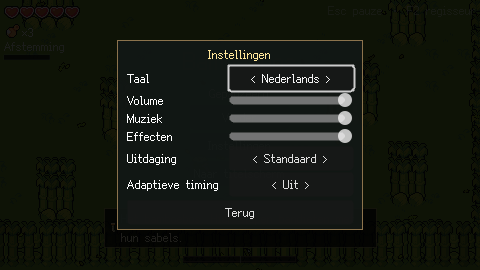
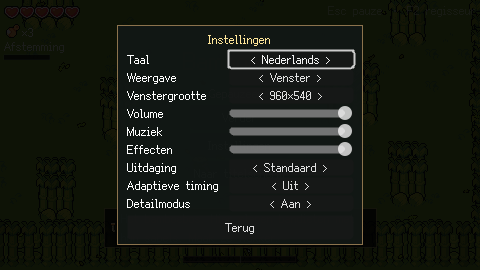
Display settings: windowed, borderless fullscreen, fullscreen and window size
The settings panel cycles the display mode and the window size (whole
multiples of 480x270 that fit the screen; full screen always fills it).
Both are saved in settings.cfg and applied at launch. Cycle buttons are
thinner so every row, Detail mode included, fits the 270 px screen.
MenuPauseSettings now stages the after-ending form.

Claude-Session: https://claude.ai/code/session_01AfcAfq5gy39RY2zATVopvQ

diff --git a/game/scripts/Core/UserSettings.cs b/game/scripts/Core/UserSettings.cs
@@ -5,7 +5,7 @@ namespace SwordInTheForest.Core;
 
 /// <summary>
 /// The player's own settings, kept in user://settings.cfg beside the director's: language and the
-/// master, music and effects volumes, whether the first ending was reached and Detail mode. First launch follows the operating system's language
+/// master, music and effects volumes, the display mode and window size, whether the first ending was reached and Detail mode. First launch follows the operating system's language
 /// (Dutch, Chinese, otherwise English). Nothing is read or written in scenario and screenshot runs.
 /// </summary>
 public static class UserSettings
@@ -32,6 +32,12 @@ public static class UserSettings
     /// <summary>Show merit, karma, reaction times and the attunement meter.</summary>
     public static bool ShowDetails => EndingSeen && DetailMode;
 
+    /// <summary>Windowed, borderless fullscreen or fullscreen.</summary>
+    public static DisplayMode Display { get; private set; } = DisplayMode.Windowed;
+    /// <summary>The windowed size as a multiple of the 480×270 viewport (1 to <see cref="MaxScale"/>).</summary>
+    public static int Scale { get; private set; } = 3;
+    public const int BaseWidth = 480, BaseHeight = 270;
+
     public static event Action? Changed;
 
     /// <summary>One of <see cref="Locales"/> for any locale code.</summary>
@@ -51,6 +57,10 @@ public static class UserSettings
         Effects = (float)(double)cfg.GetValue("audio", "effects", 1.0);
         EndingSeen = (bool)cfg.GetValue("progress", "ending_seen", false);
         DetailMode = (bool)cfg.GetValue("ui", "detail_mode", false);
+        var mode = (int)cfg.GetValue("display", "mode", (int)DisplayMode.Windowed);
+        Display = Enum.IsDefined(typeof(DisplayMode), mode) ? (DisplayMode)mode : DisplayMode.Windowed;
+        Scale = Mathf.Clamp((int)cfg.GetValue("display", "scale", DefaultScale()), 1, MaxScale());
+        ApplyDisplay();
         if (applyLocale)
         {
             var saved = loaded ? (string)cfg.GetValue("ui", "locale", "") : "";
@@ -103,6 +113,63 @@ public static class UserSettings
         Changed?.Invoke();
     }
 
+    /// <summary>The largest multiple of 480×270 whose window fits the screen (4 when there is no screen).</summary>
+    public static int MaxScale()
+    {
+        if (Headless) return 4;
+        var usable = DisplayServer.ScreenGetUsableRect(DisplayServer.WindowGetCurrentScreen()).Size;
+        // Leave room for the title bar in windowed mode.
+        var k = Mathf.Min(usable.X / BaseWidth, (usable.Y - 32) / BaseHeight);
+        return Mathf.Max(1, k);
+    }
+
+    /// <summary>The project's own window size (1440×810, ×3) if it fits, else the largest that does.</summary>
+    private static int DefaultScale() => Mathf.Min(3, MaxScale());
+
+    public static void SetDisplay(DisplayMode mode)
+    {
+        Display = mode;
+        ApplyDisplay();
+        Save();
+    }
+
+    /// <summary>The next display mode (step +1 or -1).</summary>
+    public static void CycleDisplay(int step) => SetDisplay((DisplayMode)Mathf.PosMod((int)Display + step, 3));
+
+    /// <summary>The next window size that fits the screen (step +1 or -1, wrapping).</summary>
+    public static void CycleScale(int step)
+    {
+        var max = MaxScale();
+        Scale = Mathf.PosMod(Mathf.Clamp(Scale, 1, max) - 1 + step, max) + 1;
+        ApplyDisplay();
+        Save();
+    }
+
+    private static bool Headless => DisplayServer.GetName() == "headless";
+
+    /// <summary>Sets the window. Scenario and screenshot runs leave the window alone.</summary>
+    private static void ApplyDisplay()
+    {
+        if (!Persist || Headless) return;
+        switch (Display)
+        {
+            case DisplayMode.Borderless:
+                DisplayServer.WindowSetMode(DisplayServer.WindowMode.Fullscreen);
+                break;
+            case DisplayMode.Fullscreen:
+                DisplayServer.WindowSetMode(DisplayServer.WindowMode.ExclusiveFullscreen);
+                break;
+            default:
+                DisplayServer.WindowSetMode(DisplayServer.WindowMode.Windowed);
+                DisplayServer.WindowSetFlag(DisplayServer.WindowFlags.Borderless, false);
+                var size = new Vector2I(BaseWidth, BaseHeight) * Mathf.Clamp(Scale, 1, MaxScale());
+                DisplayServer.WindowSetSize(size);
+                var screen = DisplayServer.ScreenGetUsableRect(DisplayServer.WindowGetCurrentScreen());
+                DisplayServer.WindowSetPosition(screen.Position + (screen.Size - size) / 2);
+                break;
+        }
+    }
+
     private static void ApplyAudio() => AudioServer.SetBusVolumeDb(0, Mathf.LinearToDb(Mathf.Max(0.0001f, Master)));
 
     private static void Save()
@@ -115,6 +182,8 @@ public static class UserSettings
         cfg.SetValue("audio", "master", (double)Master);
         cfg.SetValue("audio", "music", (double)Music);
         cfg.SetValue("audio", "effects", (double)Effects);
+        cfg.SetValue("display", "mode", (int)Display);
+        cfg.SetValue("display", "scale", Scale);
         cfg.SetValue("progress", "ending_seen", EndingSeen);
         cfg.SetValue("ui", "detail_mode", DetailMode);
         cfg.Save(DirectorService.SettingsPath);

diff --git a/game/scripts/Ui/SettingsPanel.cs b/game/scripts/Ui/SettingsPanel.cs
@@ -6,7 +6,8 @@ using SwordInTheForest.Director;
 namespace SwordInTheForest.Ui;
 
 /// <summary>
-/// Settings, from the title and the pause menu: language (switches at once), master, music and
+/// Settings, from the title and the pause menu: language (switches at once), display mode, window
+/// size (multiples of 480×270 that fit the screen), master, music and
 /// effects volume, challenge, adaptive timing and (after the first ending) Detail mode. Saved in settings.cfg. Mouse, keys or pad:
 /// up/down moves, left/right changes, Esc or Back closes.
 /// </summary>
@@ -17,6 +18,8 @@ public partial class SettingsPanel : CanvasLayer
     private Button _challenge = null!;
     private Button _adaptive = null!;
     private Button _detail = null!;
+    private Button _display = null!;
+    private Button _resolution = null!;
     private Label _detailLabel = null!;
     private HSlider _master = null!;
     private Button _back = null!;
@@ -24,6 +27,8 @@ public partial class SettingsPanel : CanvasLayer
     public bool IsOpen => _root.Visible;
     /// <summary>The Detail mode row (hidden until the first ending).</summary>
     public Button DetailButton => _detail;
+    public Button DisplayButton => _display;
+    public Button ResolutionButton => _resolution;
     public event Action? Closed;
 
     public override void _Ready()
@@ -57,6 +62,8 @@ public partial class SettingsPanel : CanvasLayer
         stack.AddChild(grid);
 
         _language = Cycle(grid, "ui.settings.language", UserSettings.CycleLocale);
+        _display = Cycle(grid, "ui.settings.display", UserSettings.CycleDisplay);
+        _resolution = Cycle(grid, "ui.settings.resolution", UserSettings.CycleScale);
         _master = Slider(grid, "ui.settings.master", UserSettings.Master, v => UserSettings.SetVolumes(master: v));
         Slider(grid, "ui.settings.music", UserSettings.Music, v => UserSettings.SetVolumes(music: v));
         Slider(grid, "ui.settings.effects", UserSettings.Effects, v =>
@@ -102,8 +109,21 @@ public partial class SettingsPanel : CanvasLayer
             Refresh();
             b.AcceptEvent();
         };
+        Compact(b);
         Row(grid, key, b);
         return b;
+    }
+
+    /// <summary>Thinner padding, so every row (Detail mode too) fits the 270 px screen.</summary>
+    private static void Compact(Button b)
+    {
+        foreach (var state in new[] { "normal", "hover", "pressed", "focus", "disabled" })
+        {
+            if (b.GetThemeStylebox(state)?.Duplicate() is not StyleBox box) continue;
+            box.ContentMarginTop = 0;
+            box.ContentMarginBottom = 0;
+            b.AddThemeStyleboxOverride(state, box);
+        }
     }
 
     private static HSlider Slider(GridContainer grid, string key, float value, Action<float> changed)
@@ -117,6 +137,16 @@ public partial class SettingsPanel : CanvasLayer
     private void Refresh()
     {
         _language.Text = $"< {UserSettings.LocaleName(UserSettings.Locale)} >";
+        _display.Text = $"< {Tr(UserSettings.Display switch
+        {
+            DisplayMode.Borderless => "ui.settings.borderless",
+            DisplayMode.Fullscreen => "ui.settings.fullscreen",
+            _ => "ui.settings.windowed",
+        })} >";
+        // The window size only applies to a window; full screen always fills the screen.
+        _resolution.Disabled = UserSettings.Display != DisplayMode.Windowed;
+        var k = Mathf.Clamp(UserSettings.Scale, 1, UserSettings.MaxScale());
+        _resolution.Text = _resolution.Disabled ? Tr("ui.settings.fit_screen") : $"< {UserSettings.BaseWidth * k}×{UserSettings.BaseHeight * k} >";
         // Detail mode appears once the first ending is reached.
         _detail.Visible = _detailLabel.Visible = UserSettings.EndingSeen;
         _detail.Text = $"< {Tr(UserSettings.DetailMode ? "ui.settings.on" : "ui.settings.off")} >";

diff --git a/game/scripts/scenarios/SettingsScenario.cs b/game/scripts/scenarios/SettingsScenario.cs
@@ -6,7 +6,8 @@ namespace SwordInTheForest.Scenarios;
 
 /// <summary>
 /// The language picker on the title switches the language at once (en → nl → zh_CN → en), the
-/// settings panel opens from the title and from the pause menu, and its volume changes apply.
+/// settings panel opens from the title and from the pause menu, its volume changes apply, and the
+/// display mode and window size cycle.
 /// </summary>
 public partial class SettingsScenario : Scenario
 {
@@ -44,6 +45,25 @@ public partial class SettingsScenario : Scenario
             case 4:
                 Check(_title.Settings.IsOpen, "settings did not open from the title");
                 Check(!_title.StartRequested, "opening settings started the game");
+                // Display: windowed → borderless → fullscreen → windowed; the window size cycles
+                // through the multiples of 480×270 that fit, and only applies to a window.
+                var panel = _title.Settings;
+                Check(UserSettings.Display == DisplayMode.Windowed && !panel.ResolutionButton.Disabled, "does not start windowed with a window size");
+                var start = UserSettings.Scale;
+                for (var i = 0; i < UserSettings.MaxScale(); i++)
+                {
+                    panel.ResolutionButton.EmitSignal(BaseButton.SignalName.Pressed);
+                    Check(UserSettings.Scale >= 1 && UserSettings.Scale <= UserSettings.MaxScale(), $"window size ×{UserSettings.Scale} does not fit");
+                    Check(panel.ResolutionButton.Text.Contains($"{480 * UserSettings.Scale}×{270 * UserSettings.Scale}"), $"window size reads {panel.ResolutionButton.Text}");
+                }
+                Check(UserSettings.Scale == start, "the window size did not wrap around");
+                panel.DisplayButton.EmitSignal(BaseButton.SignalName.Pressed);
+                Check(UserSettings.Display == DisplayMode.Borderless && panel.ResolutionButton.Disabled, "borderless did not take over the window size");
+                Check(panel.DisplayButton.Text.Contains(Tr("ui.settings.borderless")), "the display button does not say borderless");
+                panel.DisplayButton.EmitSignal(BaseButton.SignalName.Pressed);
+                Check(UserSettings.Display == DisplayMode.Fullscreen, "no fullscreen after borderless");
+                panel.DisplayButton.EmitSignal(BaseButton.SignalName.Pressed);
+                Check(UserSettings.Display == DisplayMode.Windowed && !panel.ResolutionButton.Disabled, "did not come back to windowed");
                 UserSettings.SetVolumes(master: 0.5f, music: 0.25f, effects: 0.75f);
                 Check(Mathf.IsEqualApprox(AudioServer.GetBusVolumeDb(0), Mathf.LinearToDb(0.5f)), "master volume not applied");
                 Input.ParseInputEvent(new InputEventAction { Action = "ui_cancel", Pressed = true });

diff --git a/game/scripts/Screens/MenuView.cs b/game/scripts/Screens/MenuView.cs
@@ -10,6 +10,8 @@ namespace SwordInTheForest.Screens;
 public partial class MenuView : Node
 {
     [Export] public string Mode { get; set; } = "pause";
+    /// <summary>Stage it after the first ending with Detail mode on (the settings' longest form).</summary>
+    [Export] public bool AfterEnding { get; set; }
 
     private RunScene? _run;
     private int _frame;
@@ -17,6 +19,7 @@ public partial class MenuView : Node
     public override void _Ready()
     {
         ProcessMode = ProcessModeEnum.Always;
+        Core.UserSettings.SetProgressForTest(AfterEnding, AfterEnding);
         if (Mode == "title_settings")
         {
             var title = GD.Load<PackedScene>("res://scenes/Title.tscn").Instantiate<Title>();

diff --git a/game/scripts/Core/DisplayMode.cs b/game/scripts/Core/DisplayMode.cs
@@ -1,0 +1,12 @@
+namespace SwordInTheForest.Core;
+
+/// <summary>How the game's window is shown (settings.cfg, [display] mode).</summary>
+public enum DisplayMode
+{
+    /// <summary>A window sized to a whole multiple of 480×270.</summary>
+    Windowed,
+    /// <summary>A borderless window covering the screen.</summary>
+    Borderless,
+    /// <summary>Exclusive fullscreen.</summary>
+    Fullscreen,
+}
